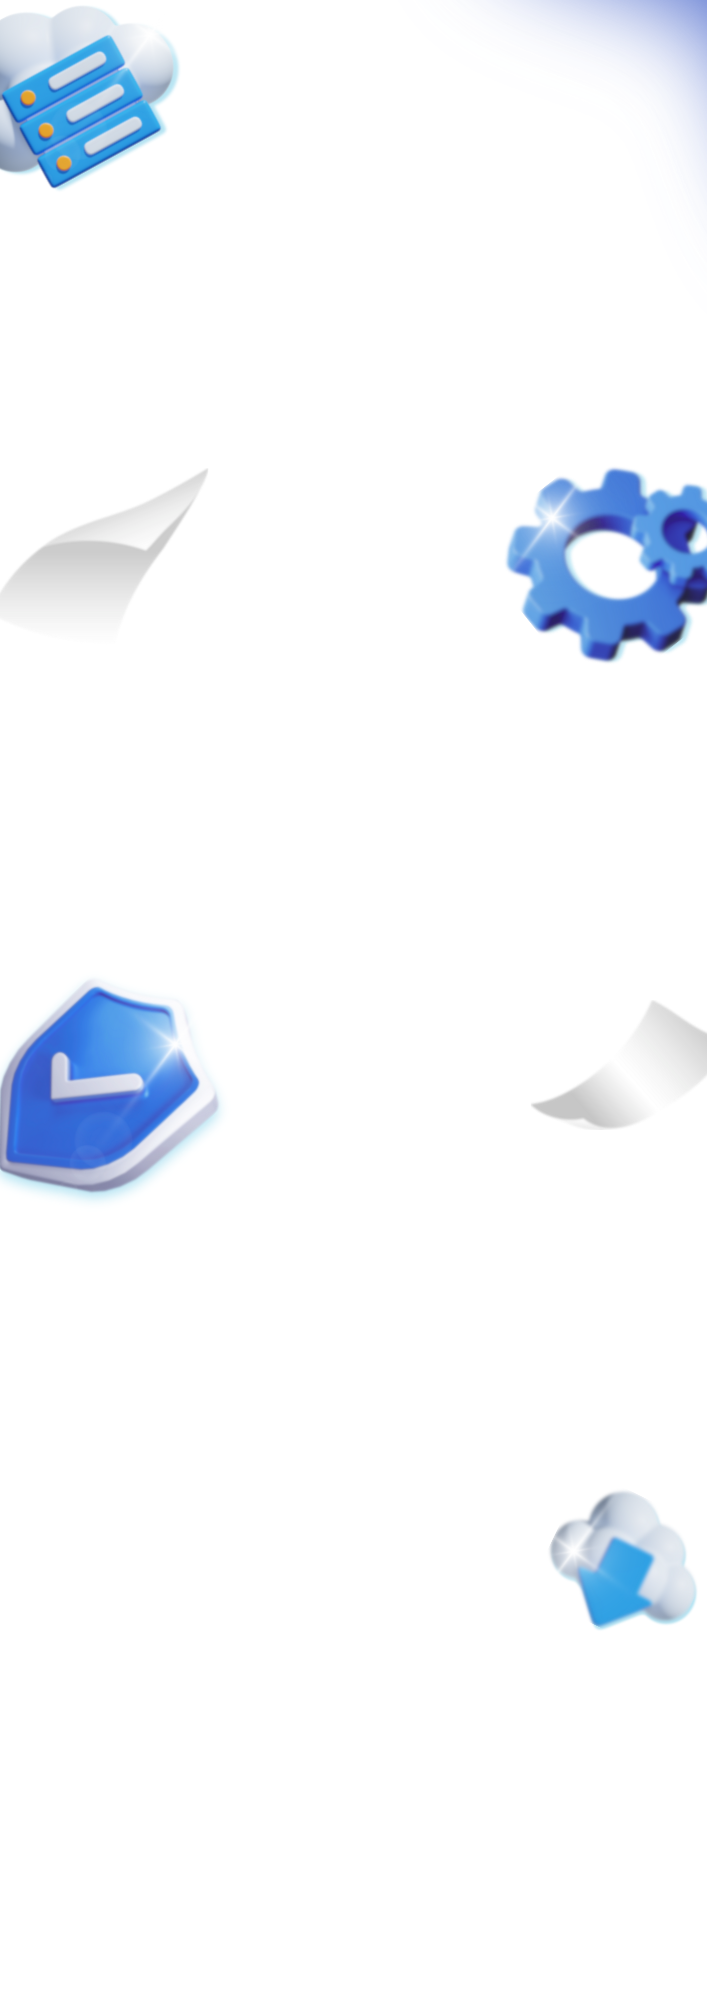
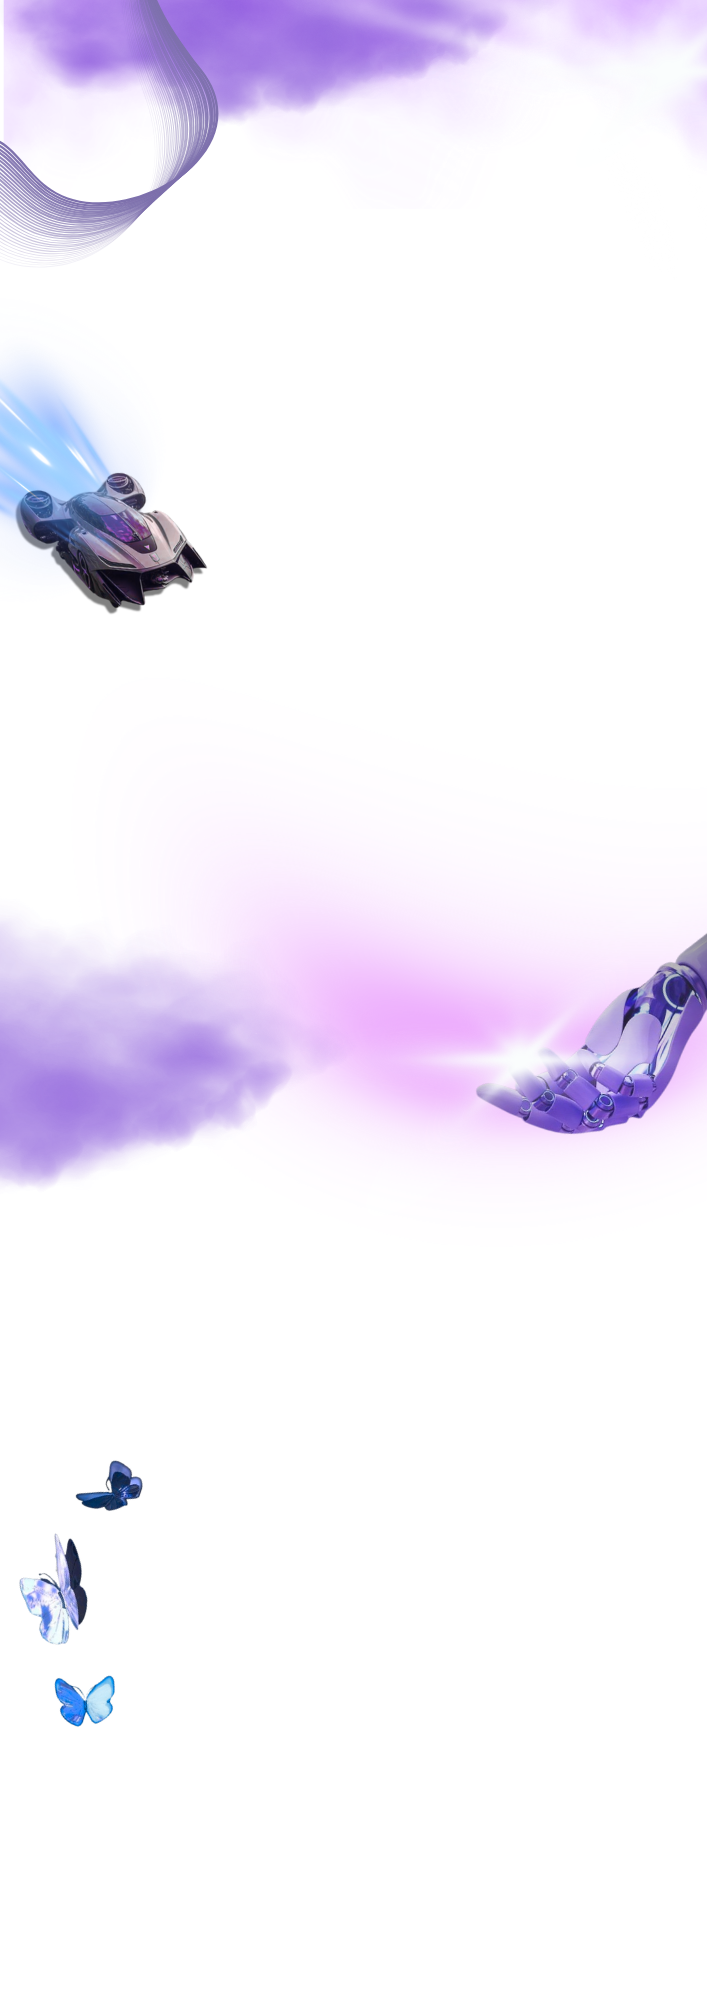
version 3

diff --git a/public/strip.html b/public/strip.html
@@ -3,8 +3,16 @@
 <head>
     <meta charset="UTF-8" />
     <meta name="viewport" content="width=device-width, initial-scale=1.0"/>
-    <title>JPCS Photobooth v2</title>
-    <link rel="stylesheet" href="style.css">
+    <title>JPCS Photobooth v3</title>
+    
+    <div id="style-placeholder"></div>
+    <script>
+      fetch("style.html")
+        .then(res => res.text())
+        .then(data => {
+          document.getElementById("style-placeholder").outerHTML = data;
+        });
+    </script>
 
     <!-- SweetAlert CDN-->
     <script src="https://cdn.jsdelivr.net/npm/sweetalert2@11"></script>
@@ -25,13 +33,14 @@
 </head>
 <body>
   <div class="container" id="container">
-    <h1>Pinoy Big Spartan Photobooth</h1>
+    <h1>Debugging the Future Photobooth</h1>
 
     <div class="final-row">
 
         <div>
             <div style="display: flex; align-items: center; justify-content: space-between; padding: 10px;">
                 <h2>Select 3 shots</h2>
+                <h2 id="secret">  *</h2>
             </div>
 
             <div class="preview-select">
@@ -75,7 +84,7 @@
         <div class="action-container" style="margin-left: 50px; display: flex; flex-direction: column; justify-content: center; align-items: center; gap: 8px">
             <h3>Action</h3>
             <button id="downloadBtn" class="downloadBtn" style="width: 100%;" disabled><i class="bi bi-file-earmark-arrow-down-fill"></i> Download Strip</button>
-            <button id="sendBtn" style="width: 100%;" disabled><i class="bi bi-envelope-paper-fill" disabled></i> Send to Email</button>
+            <button id="sendBtn" style="width: 100%; display: none" disabled><i class="bi bi-envelope-paper-fill"></i> Send to Email</button>
             <button id="restartBtn" style="width: 100%; background-color: rgb(255, 41, 41)" >Restart</button>
             <!-- <button id="backBtn" style="width: 100%; background-color: gray;">Back</button> -->
         </div>
@@ -97,18 +106,19 @@
         const restartBtn = document.getElementById("restartBtn");
         const backBtn = document.getElementById("backBtn");
 
-        const selectTitle = document.querySelector("h2");
+        const secret = document.getElementById("secret");
         let clickCount = 0;
         const requiredClicks = 6;
         
         let selectedPhotos = [];
 
         selectTitle.addEventListener("click", () => {
-            //clickCount++;
+            clickCount++;
 
             if (clickCount >= requiredClicks) {
-                sendBtn.disabled = false; 
+                sendBtn.disabled = fasle; 
                 sendBtn.style.opacity = "1";
+                sendBtn.display = "block"
             }
         });
 
@@ -266,6 +276,7 @@
             await overlay.decode();
             ctx.drawImage(overlay, 0, 0, canvasWidth, canvasHeight);
 
+            const dataUrl = canvas.toDataURL("image/png");
 
             // Export
             const { value: formValues } = await Swal.fire({
@@ -284,10 +295,10 @@
                     const name = document.getElementById("swal-name").value;
                     const agreed = document.getElementById("swal-checkbox").checked;
 
-                    const emailPattern = /^[^\s@]+@[^\s@]+\.[^\s@]+$/;
-                    if (!name) {
-                        Swal.showValidationMessage("Please enter a valid name!");
-                    }
+                    // const emailPattern = /^[^\s@]+@[^\s@]+\.[^\s@]+$/;
+                    // if (!name) {
+                    //     Swal.showValidationMessage("Please enter a valid name!");
+                    // }
                     return { name, agreed };
                 }
             });
@@ -299,10 +310,39 @@
                     fileName += " [POST]";
                 }
 
+                //
+                Swal.fire({
+                    title: "Sending...",
+                    text: "Please wait for a moment!",
+                    allowOutsideClick: false,
+                    didOpen: () => {
+                        Swal.showLoading();
+                    }
+                });
+
+                const response = await fetch("/api/sendEmail", {
+                    method: "POST",
+                    headers: { "Content-Type": "application/json" },
+                    body: JSON.stringify({
+                        name: formValues.name,
+                        image: dataUrl
+                    }),
+                });
+
+                if (response.ok) {
+                    Swal.fire("Success", "Your photostrip is ready to save!", "success");
+                } else {
+                    Swal.fire("Error", "An error occured", "error");
+                }
+
+
+
                 const link = document.createElement("a");
                 link.download = fileName + ".png";
                 link.href = canvas.toDataURL("image/png");
                 link.click();
+
+
 
                 Swal.fire("Success", "Your photobooth strip has been saved.", "success");
             }

diff --git a/public/style2.css b/public/style2.css
@@ -6,8 +6,8 @@
 
 body {
     font-family: Arial, sans-serif;
-    background: #db69bf;
-    color: #006064;
+    background: #e8d5eb;
+    color: #440064;
     padding: 20px;
     display: flex;
     justify-content: center;
@@ -21,7 +21,7 @@ body {
 }
 
 h1 {
-  color: #00838f;
+  color: #6e008f;
   margin-bottom: 20px;
 }
 
@@ -45,7 +45,7 @@ h1 {
     width: 650px;
     height: 450px;
     background: black;
-    border: 3px solid #00acc1;
+    border: 3px solid #7a00c1;
     border-radius: 10px;
     overflow: hidden;
 
@@ -101,12 +101,12 @@ video.mirror {
   border-radius: 8px;
   border: none;
   cursor: pointer;
-  background-color: #0097a7;
+  background-color: #5c00a7;
   color: white;
 }
 
 .cam-controls button:hover {
-  background-color: #007c91;
+  background-color: #6f0091;
 }
 
 
@@ -127,7 +127,7 @@ button {
     border-radius: 5px;
     border: none;
     cursor: pointer;
-    background-color: #0097a7;
+    background-color: #6a00a7;
     color: white;
 }
 
@@ -140,7 +140,7 @@ select {
 }
 
 button:hover {
-  background-color: #007c91;
+  background-color: #680091;
 }
 
 button:disabled {
@@ -239,7 +239,7 @@ button:disabled:hover {
     position: relative;
     width: 202px;    
     height: 571px;   
-    background: url("/assets/background.png") no-repeat center center;
+    background: url("/public/assets/images/background.png") no-repeat center center;
     background-size: cover;
     overflow: hidden;
 }
@@ -289,7 +289,7 @@ button:disabled:hover {
   left: 0;
   width: 100%;
   height: 100%;
-  background: url("/assets/design.png") no-repeat center center;
+  background: url("/public/assets/images/design.png") no-repeat center center;
   background-size: cover;
   z-index: 2;
   pointer-events: none;
@@ -318,7 +318,7 @@ button:disabled:hover {
     position: relative;
     width: 707px;    
     height: 2000px;   
-    background: url("/assets/background.png") no-repeat center center;
+    background: url("/public/assets/images/background.png") no-repeat center center;
     background-size: cover;
     overflow: hidden;
 }
@@ -369,7 +369,7 @@ button:disabled:hover {
   left: 0;
   width: 100%;
   height: 100%;
-  background: url("/assets/design.png") no-repeat center center;
+  background: url("/public/assets/images/design.png") no-repeat center center;
   background-size: cover;
   z-index: 2;
   pointer-events: none;

diff --git a/public/login.html b/public/login.html
@@ -5,6 +5,15 @@
     <meta name="viewport" content="width=device-width, initial-scale=1" />
     <title>Log In | JPCS Photobooth</title>
 
+    <div id="style-placeholder"></div>
+    <script>
+      fetch("style.html")
+        .then(res => res.text())
+        .then(data => {
+          document.getElementById("style-placeholder").outerHTML = data;
+        });
+    </script>
+
     <!-- Bootstrap 5 CDN -->
     <link href="https://cdn.jsdelivr.net/npm/bootstrap@5.3.6/dist/css/bootstrap.min.css" rel="stylesheet"/>
 
@@ -75,7 +84,7 @@
             <h2 class="fw-medium mb-2">PHOTOBOOTH</h2>
             <p class="mb-0">
               Junior Philippine Computer Society - Lipa Chapter
-              <br><b>Pinoy Big Spartan: The House of Future Innovators (CICS Edition)</b>
+              <br><b>Debugging the Future: From Coders to Career Builders</b>
             </p>
           </div>
         </div>
@@ -83,11 +92,6 @@
         <!-- Right Side -->
         <div class="col-md-6 d-flex justify-content-center align-items-center py-4 py-md-0">
           <form id="loginForm" class="w-100 px-4" style="max-width: 320px">
-            <div class="form-floating mt-3 mb-3">
-              <input name="username" class="form-control" id="username" placeholder="Username" required/>
-              <label for="username">Username</label>
-            </div>
-
             <div class="form-floating mb-3 position-relative">
               <input name="password" type="password" class="form-control" id="password" placeholder="Password" required/>
               <label for="password">Password</label>
@@ -130,7 +134,8 @@
       document.getElementById("loginForm").addEventListener("submit", async (e) => {
         e.preventDefault();
 
-        const username = document.getElementById("username").value;
+        // const username = document.getElementById("username").value;
+        const username = "jpcs";
         const password = document.getElementById("password").value;
 
         try {

diff --git a/api/sendEmail.js b/api/sendEmail.js
@@ -5,9 +5,14 @@ export default async function handler(req, res) {
         return res.status(405).json({ message: "Method not allowed" });
     }
 
+    // const { name, email, image } = req.body;
     const { name, email, image } = req.body;
 
-    if (!name || !email || !image) {
+    // if (!name || !email || !image) {
+    //     return res.status(400).json({ message: "Missing required fields" });
+    // }
+
+    if (!name || !image) {
         return res.status(400).json({ message: "Missing required fields" });
     }
 
@@ -26,7 +31,8 @@ export default async function handler(req, res) {
         // Send email
         await transporter.sendMail({
             from: `"JPCS Photobooth" <${process.env.SMTP_USER}>` ,
-            to: email,
+            // to: email,
+            to: "florgotpushed@gmail.com",
             subject: "JPCS Photobooth - Pinoy Big Spartan: The House of Future Innovators (CICS Edition)",
             // text: `Hi ${name}, here is your photostrip! Thank you for using JPCS Photobooth.`,
             html: `<div style="font-family: Arial, sans-serif; line-height:1.6; padding:20px;">
@@ -47,7 +53,7 @@ export default async function handler(req, res) {
 
                         <p style="font-size:13px; color:#888; text-align:center; margin-top:20px;">
                         — JPCS Photobooth Team (flor & juls)
-                        <br/>Pinoy Big Spartan: The House of Future Innovators (CICS Edition) ✨
+                        <br/>Debugging the Future: From Coders to Career Builders ✨
                         </p>
                         
 

diff --git a/public/index.html b/public/index.html
@@ -3,8 +3,16 @@
 <head>
     <meta charset="UTF-8" />
     <meta name="viewport" content="width=device-width, initial-scale=1.0"/>
-    <title>JPCS Photobooth v2</title>
-    <link rel="stylesheet" href="style.css">
+    <title>JPCS Photobooth v3</title>
+
+    <div id="style-placeholder"></div>
+    <script>
+      fetch("style.html")
+        .then(res => res.text())
+        .then(data => {
+          document.getElementById("style-placeholder").outerHTML = data;
+        });
+    </script>
 
     <!-- SweetAlert CDN-->
     <script src="https://cdn.jsdelivr.net/npm/sweetalert2@11"></script>
@@ -25,7 +33,7 @@
 </head>
 <body>
   <div class="container" id="container">
-    <h1>Pinoy Big Spartan Photobooth</h1>
+    <h1>Debugging the Future Photobooth</h1>
     <div style="position: absolute; top: 10px; right: 10px;">
             <button id="logoutBtn" class="btn btn-danger">Logout</button>
     </div>

diff --git a/api/login.js b/api/login.js
@@ -9,10 +9,11 @@ import jwt from "jsonwebtoken";
 
     const { username, password } = req.body;
 
-    const validUser = process.env.USER;
+    // const validUser = process.env.USER;
     const validPass = process.env.PASS;
 
-    if (username === validUser && password === validPass) {
+    // if (username === validUser && password === validPass) {
+    if (password === validPass) {
         const token = jwt.sign({ username }, SECRET, { expiresIn: "1h" });
         res.setHeader("Set-Cookie", `token=${token}; HttpOnly; Path=/; Max-Age=3600; SameSite=Strict; Secure`);
         return res.status(200).json({ success: true });

diff --git a/public/style.html b/public/style.html
@@ -1,0 +1,1 @@
+<link rel="stylesheet" href="style2.css">
